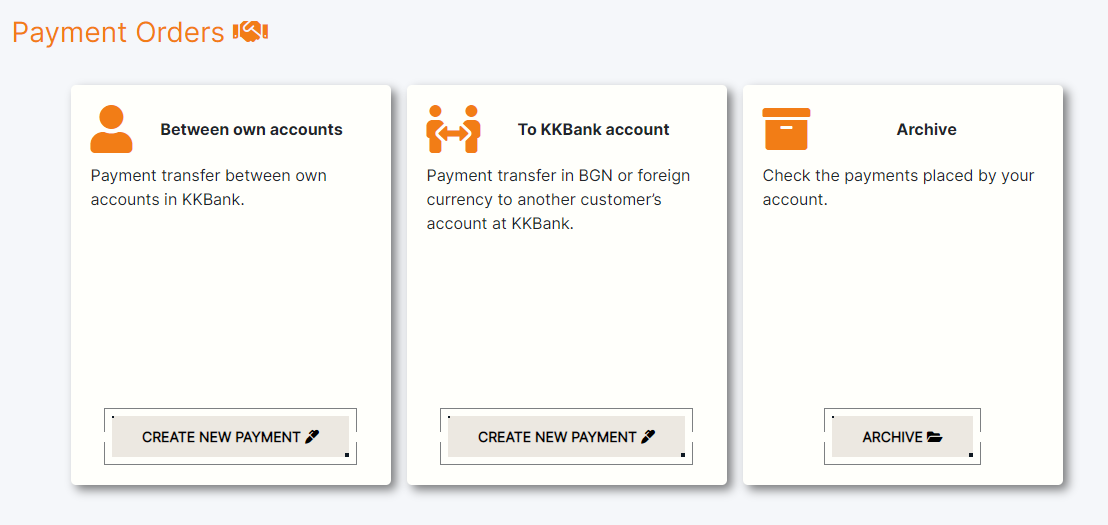
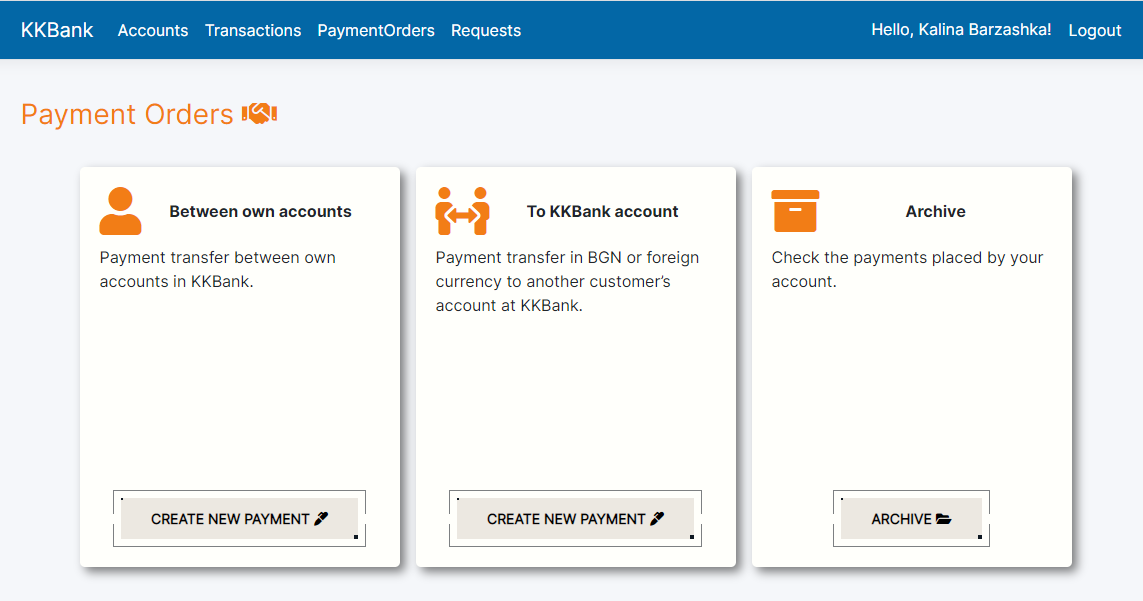
Updated readme for KKBank platform

diff --git a/README.md b/README.md
@@ -1,20 +1,18 @@
-## [#1589F0]Table of content
+## ![#1589F0]Table of content
 ### KKBank - Online banking platform for individuals
-#### Overview
-#### Functionalities and Roles
-#### Architecture
+- Overview
+- Functionalities and Roles
 ### KKBank BO - Back Office platform for bank employees
-#### Overview
-#### Functionalities and Roles
-#### Architecture
+- Overview
+- Functionalities and Roles
+### Architecture
 ### Technology Stack
-
-  
     
-# [#1589F0]KKBank
+# ![#1589F0]KKBank
 
 KKBank is my defense project for a bachelor's degree in business informatics. 
-The software is powered by ASP.NET Core MVC backend and supports a MSSQL database. The project overview, functionalities, architecture and technology stack is reviewed bellow.
+The software is powered by ASP.NET Core MVC backend and supports a MSSQL database. The project overview, functionalities, architecture and technology stack is reviewed bellow.  
+![Screenshot](public/KKBankMenu.png?raw=true "KKBankMenu")
 
 ## :pencil: Overview
 
@@ -51,6 +49,7 @@ KKBank as online banking platform, offers only one role - the role of the end cu
 ![Screenshot](public/requestArchive.png?raw=true "RequestArchive")
 ### :pushpin: Check your account/s availability/ies  
 ![Screenshot](public/accountBalance.png?raw=true "AccountBalance")
+![Screenshot](public/accountBalance1.png?raw=true "AccountBalance1")
 ### :pushpin: Transfer money between your accounts in KKBank
 ![Screenshot](public/payments-betweenOwnAccounts.png?raw=true "TransferBetweenOwnAccounts")
 ### :pushpin: Transfer money to other accounts withing KK Bank  
@@ -64,4 +63,15 @@ KKBank as online banking platform, offers only one role - the role of the end cu
 ### :pushpin: Common menus for Payment Orders functionalities
 ![Screenshot](public/paymentOrdersMenu.png?raw=true "PaymentOrdersMenu")
 
-## :hammer: Architecture
+# ![#1589F0]KKBank BO
+
+# :hammer: Architecture
+The KKBank and KKBank BO platforms are based on the .NET technology stack.
+Both platforms communicate with MSSQL database via service layer.
+
+# :gear: Technology Stack
+- C# and .NET 5 MVC
+- JS, HTML, CSS, Bootstrap
+- Razor View Engine
+- MSSQL Server
+- TSQL
